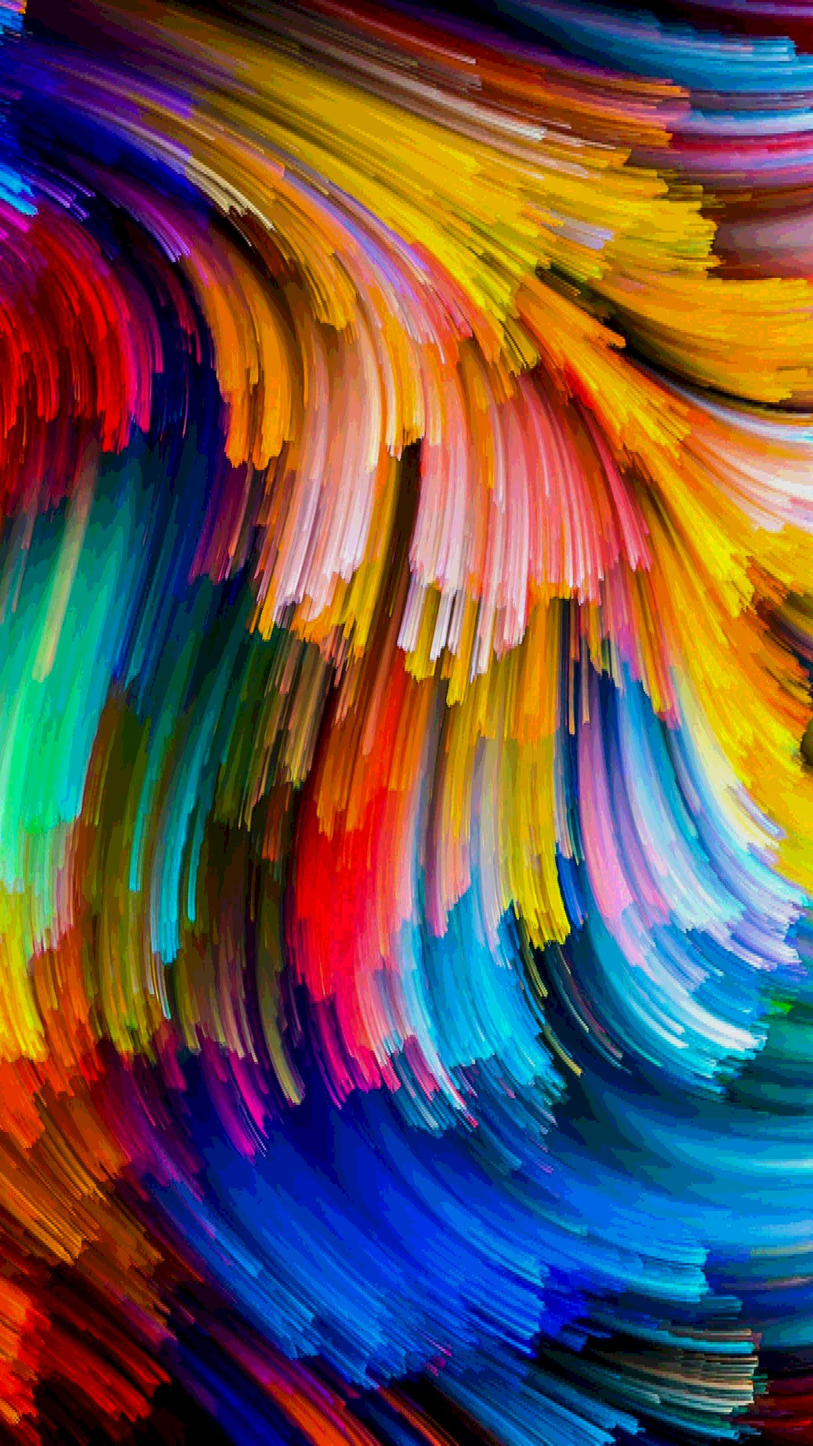
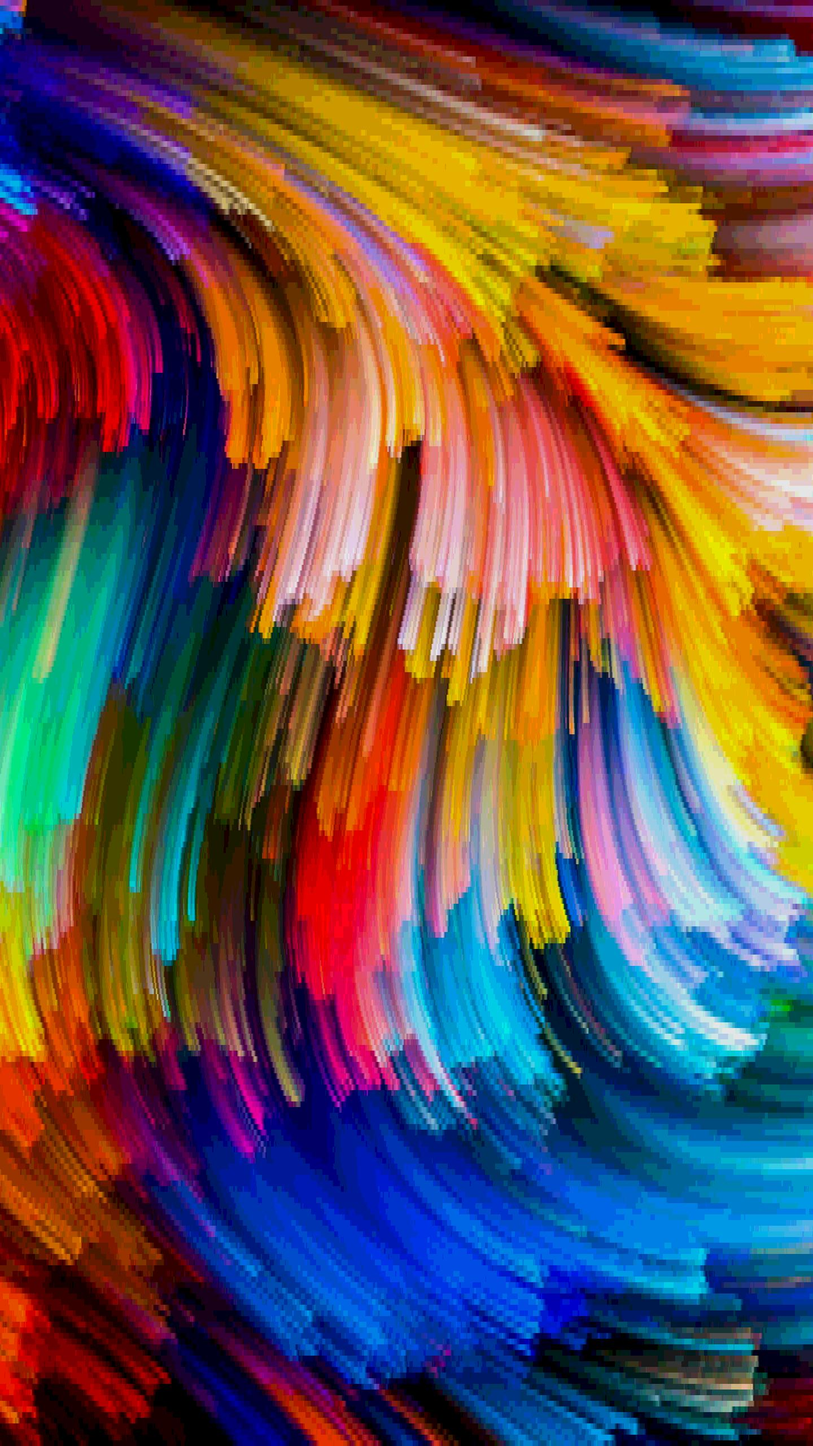
in deg func, reso_size no a function of num of rows, working make heap and merge nodes

diff --git a/src/HuffmanCoding.py b/src/HuffmanCoding.py
@@ -8,10 +8,11 @@ import os
 class HeapNode:
 
     # Object constructor
-    def __init__(self, freq, *rgb_vals):
+    def __init__(self, freq, rgb_vals):
 
         # Object variables
-        self.rgb_vals = np.array(rgb_vals)
+        # self.rgb_vals = np.asarray(rgb_vals)
+        self.rgb_vals = rgb_vals
         self.freq = freq
         self.left = None
         self.right = None
@@ -21,7 +22,7 @@ class HeapNode:
     def __cmp__(self, other):
             if(other == None):
                 return -1
-            if(not isinstence(other,HeapNode)):
+            if(not isinstance(other,HeapNode)):
                 return -1
             else:
                 return self.freq > other.freq
@@ -38,9 +39,9 @@ class Huffman:
         self.path = path
         self.img_array = np.array(Image.open(self.path))
 
-        # Shape of rgb image is (rows,colomns,3)
+        # Shape of rgb image is (rows,columns,3)
         self.rows = self.img_array.shape[0]
-        self.colomns = self.img_array.shape[1]
+        self.columns = self.img_array.shape[1]
         if (self.img_array.shape[2] != 3):
             print(self.img_array.shape)
             print('File is not an acceptable rgb image.')
@@ -55,8 +56,17 @@ class Huffman:
 
     ## Functions for running tests
     def test_img(self,filename):
+
+
         self.degredation()
-        self.fill_freq_dict()
+        freq = self.fill_freq_dict()
+        self.make_heap(freq)
+        self.merge_nodes()
+        self.create_codebook()
+        self.create_code()
+
+        print 'Number of colors in image:',len(freq)
+
         img = Image.fromarray(self.img_array)
         if filename.endswith('.jpg'):
             new_filename = filename[:len(filename)-4]+'_degredated.jpg'
@@ -74,11 +84,11 @@ class Huffman:
 
         # Precision variables
         # (MAYBE: make precision variables a function of the size of the image)
-        reso_size = 10
+        reso_size = self.rows/120
         num_diff_vals = 10
 
 
-        total_num_colors = num_diff_vals^3
+        total_num_colors = (num_diff_vals+1)^3
         prec_size = 255.0 / num_diff_vals
         remaining_rows = self.rows % reso_size
 
@@ -87,7 +97,7 @@ class Huffman:
         # Truncate the values by integer division
         for i in range(0,self.rows-remaining_rows,reso_size):
 
-            for j in range(0,self.colomns):
+            for j in range(0,self.columns):
                 valRed = np.array([self.img_array[k][j][0] for k in range(i,i+reso_size)])
                 avgRed = valRed.mean()
 
@@ -107,7 +117,7 @@ class Huffman:
         # If any rows are left at bottom of image, then finish
         if (remaining_rows != 0):
 
-            for j in range(0,self.colomns):
+            for j in range(0,self.columns):
                 valRed = np.array([self.img_array[k][j][0] for k in range(i,self.rows)])
                 avgRed = valRed.mean()
 
@@ -118,55 +128,76 @@ class Huffman:
                 avgBlue = valBlue.mean()
 
                 avgRGB = [avgRed,avgGreen,avgBlue]
-                avgRGB[:] = [int(x) - (x)%prec_size for x in avgRGB]
+                avgRGB[:] = [int(x) - int(x)%prec_size for x in avgRGB]
 
                 for l in range(i,self.rows):
                     self.img_array[l][j] = avgRGB
 
 
-
-
     def fill_freq_dict(self):
+
         frequency = {}
 
         for i in range(0,self.rows):
             pixels = self.img_array[i]
 
-            for j in range(0,self.colomns):
+            for j in range(0,self.columns):
                 rgb_val = pixels[j]
 
                 key = (rgb_val[0],rgb_val[1],rgb_val[2])
-                if key not in frequency:
+                if (key not in frequency):
                     frequency[key] = 0
 
                 frequency[key] += 1
-
-        print(len(frequency))
 
         return frequency
 
 
 
-	def make_heap(self, frequency):
-		for key in frequency:
-			node = HeapNode(key, frequency[key])
-			heapq.heappush(self.heap, node)
+    def make_heap(self, frequency):
 
-	def merge_nodes(self):
-            pass
+        for key in frequency:
+            node = HeapNode(frequency[key],key)
+            heapq.heappush(self.heap, node)
 
-	def create_code(self):
-            pass
+
+
+    def merge_nodes(self):
+        while(len(self.heap)>1):
+			node1 = heapq.heappop(self.heap)
+			node2 = heapq.heappop(self.heap)
+
+			merged = HeapNode(node1.freq + node2.freq, None)
+			merged.left = node1
+			merged.right = node2
+
+			heapq.heappush(self.heap, merged)
+
+
 
     def create_codebook(self):
             pass
 
-    def compress(self):
+    def create_code(self):
             pass
+
+
+    def compress(self):
+        self.degredation()
+        self.make_heap(self.fill_freq_dict())
+        self.merge_nodes()
+        self.create_codebook()
+        self.create_code()
 
 
 
     ## Decompression
+
+    def decode_codebook(self):
+            pass
+
+    def decode_binary(self):
+            pass
 
     def decompress(self,path):
             pass

diff --git a/src/tryme.py b/src/tryme.py
@@ -8,7 +8,7 @@ def main():
     # Enter whatever .jpg file from images folder
     # Expect degredated image in exported
 
-    filename = 'all_colors.jpg'
+    filename = 'plains.jpg'
 
     path = '../images/' + filename
     h = Huffman(path)
